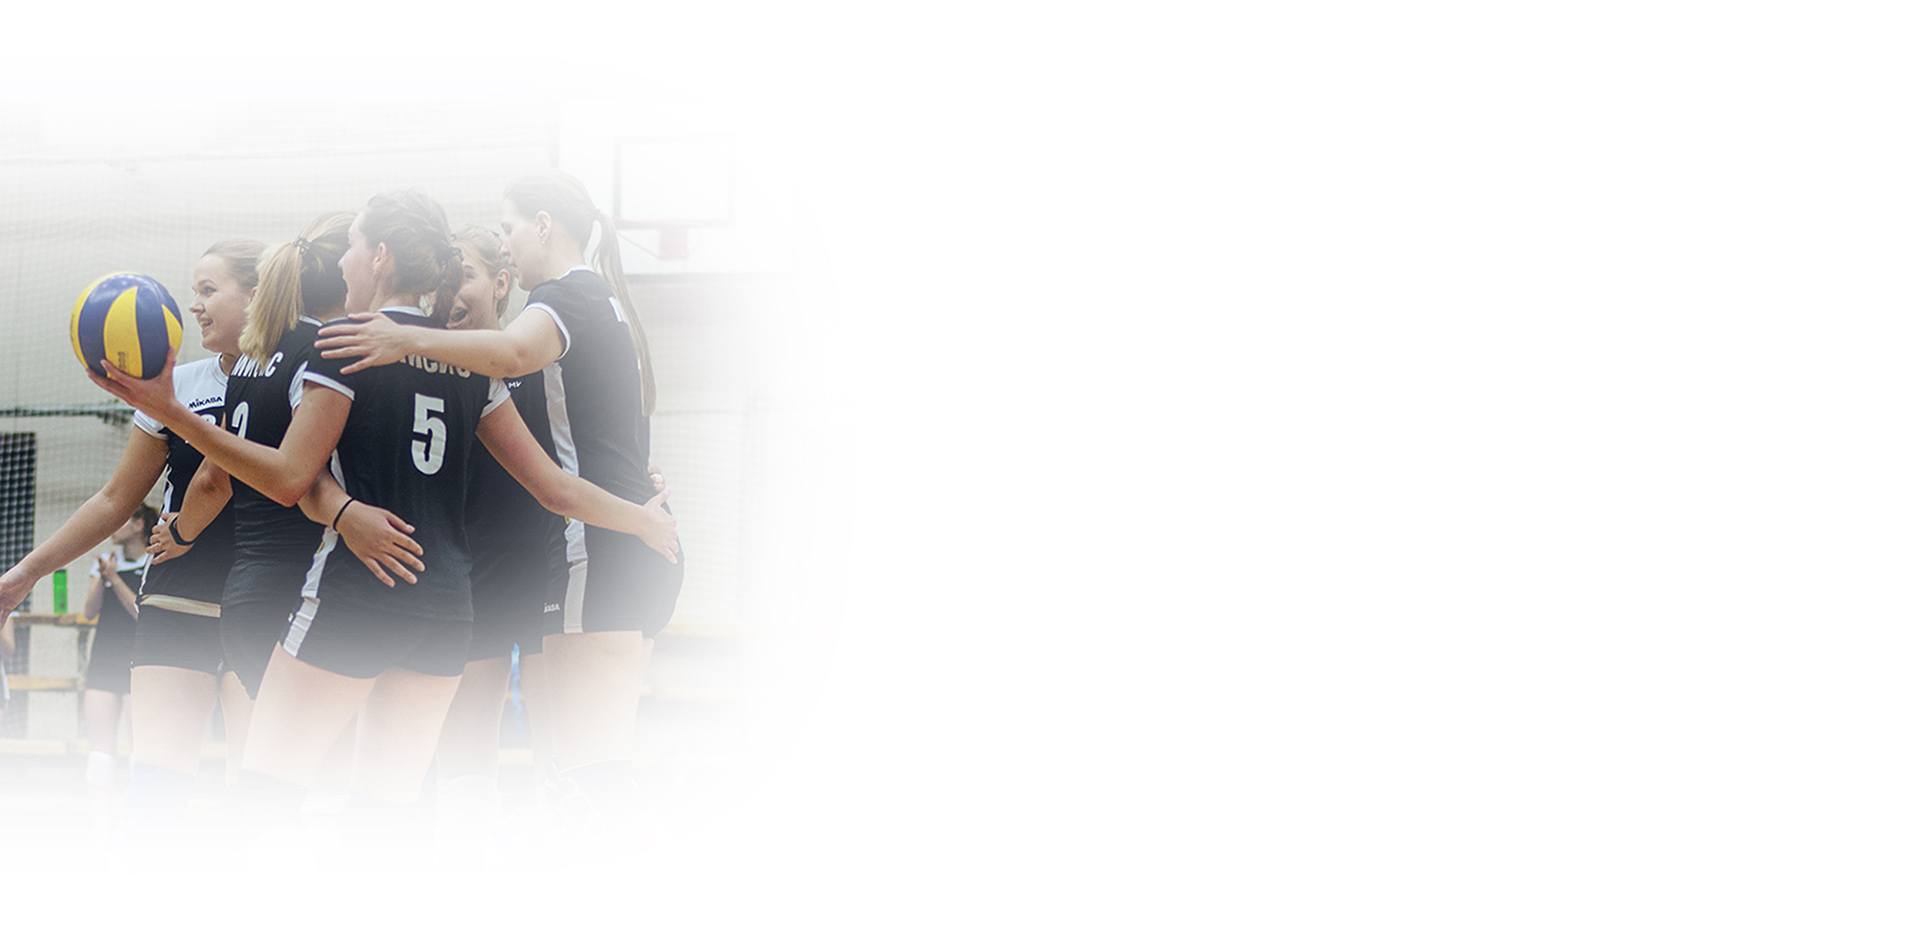
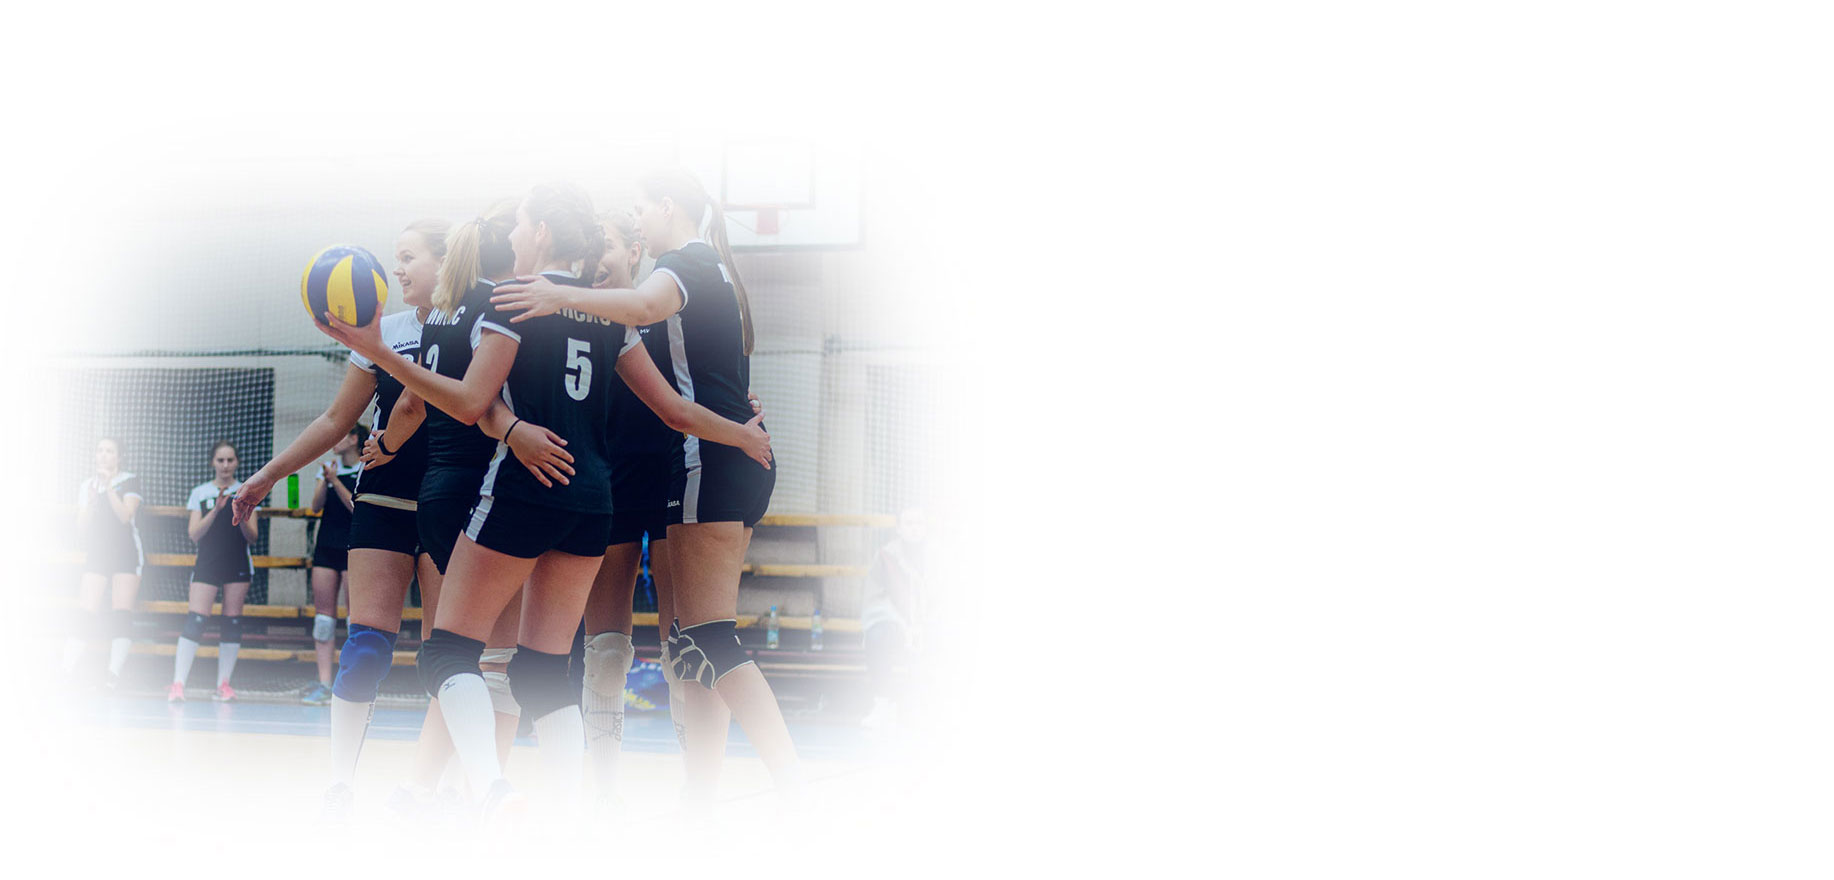
pravki pravki

Changed region(s): [[0.0, 0.1841, 0.4973, 0.8898]]

diff --git a/BarsaClub/Styles/Common.css b/BarsaClub/Styles/Common.css
@@ -1044,6 +1044,7 @@ header {
 
 #home_arenas{
     height: 100vh;
+    padding-top: 0px;
 }
 
 #more-container {
@@ -1051,9 +1052,9 @@ header {
     -moz-transition: 0.4s cubic-bezier(1, -1, 0, 2);
     -o-transition: 0.4s cubic-bezier(1, -1, 0, 2);
     transition: 0.4s cubic-bezier(1, -1, 0, 2);
-    background-position: left;
+    background-position: 20% 50%;
     background-repeat: no-repeat;
-    background-size: cover;
+    background-size: 1434px;
     padding: 40px 20px;
 }
     #more-container>.container-fluid{
@@ -1063,9 +1064,26 @@ header {
 
 #learn {
     min-height: 950px;
+    padding: 0px;
 }
 
-    #learn > .container-fluid {
+    #learn .back {
+        -webkit-transition: 0.4s cubic-bezier(1, -1, 0, 2);
+        -moz-transition: 0.4s cubic-bezier(1, -1, 0, 2);
+        -o-transition: 0.4s cubic-bezier(1, -1, 0, 2);
+        transition: 0.4s cubic-bezier(1, -1, 0, 2);
+        margin: auto;
+        position: relative;
+        background-position: 20% 50%;
+        background-repeat: no-repeat;
+        background-size: 1734px;
+        width: 100%;
+        height: 100%;
+        min-height: 950px;
+        padding: 40px 15px;
+    }
+
+    #learn .back .container-fluid {
         background-position: left;
         background-repeat: no-repeat;
         background-size: cover;
@@ -1076,11 +1094,11 @@ header {
         margin-top: 50px;
     }
 
-    #learn.classic {
+    #learn.classic .back{
         background-image: url(../Content/Images/backgrounds/Classic_mobile.jpg);
     }
 
-        #learn.classic .content-classic {
+        #learn.classic .back .content-classic {
             opacity: 1;
             z-index: 100;
             -webkit-transition: 0.4s;
@@ -1089,7 +1107,7 @@ header {
             transition: 0.4s;
         }
 
-        #learn.classic .content-beach {
+        #learn.classic .back .content-beach {
             opacity: 0;
             z-index: 1;
             -webkit-transition: 0.4s;
@@ -1098,7 +1116,7 @@ header {
             transition: 0.4s;
         }
 
-        #learn.classic .content-tournir {
+        #learn.classic .back .content-tournir {
             opacity: 0;
             z-index: 1;
             -webkit-transition: 0.4s;
@@ -1107,7 +1125,7 @@ header {
             transition: 0.4s;
         }
 
-    #learn.beach .content-classic {
+    #learn.beach .back .content-classic {
         opacity: 0;
         z-index: 1;
         -webkit-transition: 0.4s;
@@ -1116,7 +1134,7 @@ header {
         transition: 0.4s;
     }
 
-    #learn.beach .content-beach {
+    #learn.beach .back .content-beach {
         opacity: 1;
         z-index: 100;
         -webkit-transition: 0.4s;
@@ -1125,7 +1143,7 @@ header {
         transition: 0.4s;
     }
 
-    #learn.beach .content-tournir {
+    #learn.beach .back .content-tournir {
         opacity: 0;
         z-index: 1;
         -webkit-transition: 0.4s;
@@ -1134,7 +1152,7 @@ header {
         transition: 0.4s;
     }
 
-    #learn.tournir .content-classic {
+    #learn.tournir .back .content-classic {
         opacity: 0;
         z-index: 1;
         -webkit-transition: 0.4s;
@@ -1143,7 +1161,7 @@ header {
         transition: 0.4s;
     }
 
-    #learn.tournir .content-beach {
+    #learn.tournir .back .content-beach {
         opacity: 0;
         z-index: 1;
         -webkit-transition: 0.4s;
@@ -1152,7 +1170,7 @@ header {
         transition: 0.4s;
     }
 
-    #learn.tournir .content-tournir {
+    #learn.tournir .back .content-tournir {
         opacity: 1;
         z-index: 100;
         -webkit-transition: 0.4s;
@@ -1161,11 +1179,11 @@ header {
         transition: 0.4s;
     }
 
-    #learn.beach {
+    #learn.beach .back {
         background-image: url(../Content/Images/backgrounds/Beach_mobile.jpg);
     }
 
-    #learn.tournir {
+    #learn.tournir .back {
         background-image: url(../Content/Images/backgrounds/Tournir_mobile.jpg);
     }
 

diff --git a/BarsaClub/Styles/Responsive.css b/BarsaClub/Styles/Responsive.css
@@ -194,17 +194,24 @@
     #learn {
         min-height: 750px;
     }
-
-    #learn, #trainers, #contacts {
-        padding: 40px 20px;
-    }
+        
+        #learn, #trainers, #contacts {
+            padding: 40px 20px;
+        }
 
     #learn{
-        padding-right: 30px;
+        padding: 0px;
     }
 
-    #home_arenas > #more-container {
+    #learn .back{
+        min-height: 750px;
+        padding: 40px 20px;
+        padding-left: 30px;
+    }
+
+    #more-container {
         padding: 40px;
+        background-position: 10% 50%;
     }
 
     #about {
@@ -383,18 +390,23 @@
     }
 
     #learn {
-        min-height: 750px;
+        min-height: 780px;
     }
 
-        #learn.classic {
+        #learn .back{
+            min-height: 780px;
+            background-position: 40% 50%;
+        } 
+        
+        #learn.classic .back {
             background-image: url(../Content/Images/backgrounds/Classic.jpg);
         }
 
-        #learn.beach {
+        #learn.beach .back{
             background-image: url(../Content/Images/backgrounds/Beach.jpg);
         }
 
-        #learn.tournir {
+        #learn.tournir .back{
             background-image: url(../Content/Images/backgrounds/Tournir.jpg);
         }
 
@@ -408,6 +420,10 @@
 
     #home_arenas.oktyabrskaya > #more-container {
         background-image: url(../Content/Images/backgrounds/oktyabrskaya.jpg);
+    }
+
+    #more-container{
+        background-position: 20% 50%;
     }
 
     .learn-content > .text-left,
@@ -591,10 +607,15 @@
         top: 120px;
     }
 
-
-    #learn {
-        min-height: 100vh;
+    #learn .back {
+        background-position: center;
     }
+
+    #more-container {
+        background-position: 20% 50%;
+        background-size: 1634px;
+    }
+
 
     #home_arenas {
         min-height: 800px;
@@ -643,4 +664,9 @@
         .trainer-image img {
             max-width: 400px;
         }
+
+    #more-container{
+        background-position: 70% 50%;
+        background-size: 1734px;
+    }
 }

diff --git a/BarsaClub/Scripts/script.js b/BarsaClub/Scripts/script.js
@@ -10,20 +10,6 @@ $(function () {
             e.preventDefault(e);
         }
     });
-    //var applyForm = $("#apply_form");
-    //var applyContainer = $("#apply_form_container");
-    //var neededHeight = applyForm.innerHeight() + 80 + 'px';
-    //var windowHeight = $(window).innerHeight();
-    //if (parseInt(neededHeight) <= parseInt(windowHeight)) {
-    //    applyContainer.css('height', neededHeight);
-    //}
-    //applyForm.resize(function (e) {
-    //    var neededHeight = applyForm.innerHeight() + 80 + 'px';
-    //    var windowHeight = $(window).innerHeight();
-    //    if (parseInt(neededHeight) <= parseInt(windowHeight)) {
-    //        applyContainer.css('height', neededHeight);
-    //    }
-    //});
   $("#phone").mask("+7(999) 999-99-99");
   $("#payphone").mask("+7(999) 999-99-99");
   $("#pay_form").validate({
